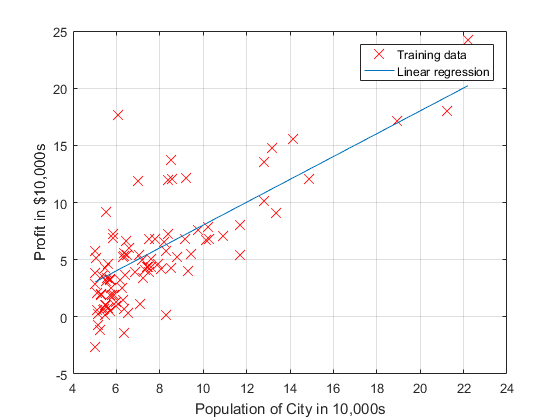
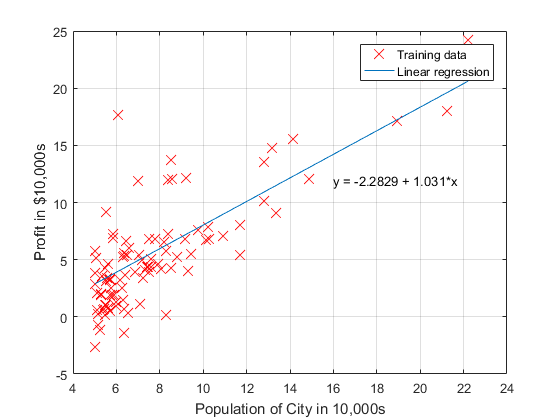
docs: removing unnecessary comments, adding results

diff --git a/ex1/featureNormalize.m b/ex1/featureNormalize.m
@@ -5,27 +5,11 @@ function [X_norm, mu, sigma] = featureNormalize(X)
 %   is 1. This is often a good preprocessing step to do when
 %   working with learning algorithms.
 
-% ====================== YOUR CODE HERE ======================
-% Instructions: First, for each feature dimension, compute the mean
-%               of the feature and subtract it from the dataset,
-%               storing the mean value in mu. Next, compute the 
-%               standard deviation of each feature and divide
-%               each feature by it's standard deviation, storing
-%               the standard deviation in sigma. 
-%
-%               Note that X is a matrix where each column is a 
-%               feature and each row is an example. You need 
-%               to perform the normalization separately for 
-%               each feature. 
-%
-% Hint: You might find the 'mean' and 'std' functions useful.
-
 m = size(X,1);         % size of training set
 mu = mean(X);          % mean of features
 sigma = std(X);        % std of features
 
+% feature normalization
 X_norm = (X - repmat(mu,[m,1]))./repmat(sigma,[m,1]);
-
-% ============================================================
 
 end

diff --git a/ex1/ex1.m b/ex1/ex1.m
@@ -21,7 +21,7 @@ X = [ones(m, 1), data(:,1)]; % Add a column of ones to x
 theta = zeros(2, 1); % initialize fitting parameters
 
 % Some gradient descent settings
-iterations = 400;
+iterations = 500;
 alpha = 0.01;
 
 fprintf('\nTesting the cost function ...\n')
@@ -52,6 +52,7 @@ fprintf(' -3.6303\n  1.1664\n\n');
 hold on; % keep previous plot visible
 plot(X(:,2), X*theta, '-')
 legend('Training data', 'Linear regression')
+text(16,12,['y = ' num2str(theta(1)) ' + ' num2str(theta(2)) '*x']);
 hold off % don't overlay any more plots on this figure
 
 % Predict values for population sizes of 35,000 and 70,000
@@ -83,14 +84,13 @@ for i = 1:length(theta0_vals)
     end
 end
 
-
 % Because of the way meshgrids work in the surf command, we need to
 % transpose J_vals before calling surf, or else the axes will be flipped
 J_vals = J_vals';
 % Surface plot
 figure;
 surf(theta0_vals, theta1_vals, J_vals)
-xlabel('\theta_0'); ylabel('\theta_1');
+xlabel('\theta_0'); ylabel('\theta_1'); zlabel('J_{theta}'); 
 
 % Contour plot
 figure;

diff --git a/ex1/README.md b/ex1/README.md
@@ -22,16 +22,18 @@ As we aim to have <img src="https://render.githubusercontent.com/render/math?mat
 
 <img src="https://render.githubusercontent.com/render/math?math=J(\theta)=\frac{1}{2m}\sum%20(y-h_{\theta}(x))^2">
 
-### Gradient Descent Algorithm
-
-There are unnumbered optimization algorithms avaialable, but Gradient Descent usually stands out thanks to its simplicity and low-computational cost. 
-
-### Obtaining a Linear Model for the data
-
-<img src="./img/linear_model.png" width="500">
-
-
-### Plotting the cost function just for fun
+If we plot <img src="https://render.githubusercontent.com/render/math?math=J(\theta)"> as a function of <img src="https://render.githubusercontent.com/render/math?math=theta_{1}^"> and <img src="https://render.githubusercontent.com/render/math?math=theta_{2}^"> , we obtain a graph like the one below:
 
 <img src="./img/cost_function_3D.png" width="500">
 
+in order to find the optimal <img src="https://render.githubusercontent.com/render/math?math=theta"> vector, we shall use optimization!
+
+### Obtaining a linear model for the data
+
+There are tons of optimization algorithms, but Gradient Descent usually stands out because of its simplicity and low-computational cost. By running 500 iterations of the gradient descent, we find the optimal <img src="https://render.githubusercontent.com/render/math?math=theta"> below (see the red cross) 
+
+<img src="./img/cost_function_countour_lines.png" width="500">
+
+which yelds the the model below (blue curve):
+
+<img src="./img/linear_model.png" width="500">
